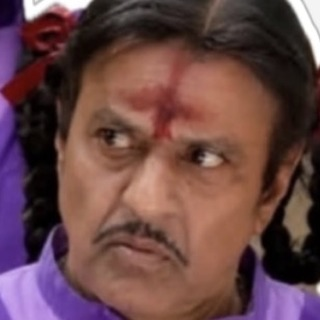
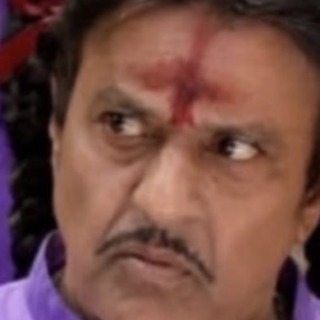
Static gold movie-title texts, bigger clearer faces, slightly faster hero
- Caught caption and Game Over title use a static gold metallic 3D title
  template (Anton font, extrusion, bevel rim, sparkle) instead of animation
- No floating text when eating
- Hero head and veggie faces larger; lighter inner shadow; tighter photo crops
- Walk 175 -> 200, run 255 -> 285

Claude-Session: https://claude.ai/code/session_01C6nTLjUV9UA8by56eQNBCD

diff --git a/game.js b/game.js
@@ -19,8 +19,8 @@
   const GRAV = 2000, MAXFALL = 1000;
   // Hero movement tuning (pixels; one block = 40px)
   const MOVE = {
-    walk: 175,        // walking speed
-    run: 255,         // speed while RUN is held
+    walk: 200,        // walking speed
+    run: 285,         // speed while RUN is held
     accelGround: 1500,
     accelAir: 1100,
     brakeGround: 2400, // stops quickly, no ice-skating
@@ -123,7 +123,7 @@
     c.save();
     c.beginPath(); c.arc(cx, cy, r, 0, TAU); c.clip();
     c.drawImage(img, cx - r, cy - r, r * 2, r * 2);
-    c.fillStyle = radial(c, cx, cy, r * 0.55, r, [[0, 'rgba(0,0,0,0)'], [1, 'rgba(0,0,0,0.38)']]);
+    c.fillStyle = radial(c, cx, cy, r * 0.75, r, [[0, 'rgba(0,0,0,0)'], [1, 'rgba(0,0,0,0.14)']]);
     c.fillRect(cx - r, cy - r, r * 2, r * 2);
     c.restore();
     c.beginPath(); c.arc(cx, cy, r, 0, TAU);
@@ -464,7 +464,7 @@
     const food = (col, row, type) => foods.push({ x: col * T + T / 2, y: row * T + T / 2, type, phase: Math.random() * TAU, got: false });
     const line = (col, row, n, types) => { for (let i = 0; i < n; i++) food(col + i, row, types[i % types.length]); };
     const enemy = (col, row, kind) => enemies.push({
-      kind, x: col * T - 4, y: (row + 1) * T - 50, w: 46, h: 50,
+      kind, x: col * T - 7, y: (row + 1) * T - 60, w: 54, h: 60,
       vx: 0, vy: 0, dir: -1, speed: 55 + Math.random() * 20, onGround: false,
       dead: false, squash: 0, gone: false, phase: Math.random() * TAU,
     });
@@ -598,7 +598,7 @@
   let state = 'title';
   let player, camX = 0, score = 0, eaten = 0, lives = 3, time = 0, winTimer = 0, caughtTimer = 0, shake = 0;
   let particles = [], texts = [];
-  const CAUGHT_TIME = 1.9;
+  const CAUGHT_TIME = 1.8;
 
   function newPlayer() {
     return {
@@ -618,26 +618,14 @@
     showOnly(null);
   }
 
-  // Split a heading into letters that drop in one after another, then wave (see style.css)
-  function animateTitle(el) {
-    const text = el.dataset.text || el.textContent;
-    el.dataset.text = text;
-    el.innerHTML = '';
-    let i = 0;
-    text.split(' ').forEach((word, wi) => {
-      if (wi) el.appendChild(document.createTextNode(' '));
-      const w = document.createElement('span'); w.className = 'word';
-      for (const ch of word) {
-        const c = document.createElement('span');
-        c.className = 'ch'; c.textContent = ch;
-        c.style.setProperty('--d', `${0.25 + i * 0.045}s`);
-        c.style.setProperty('--w', `${i * 0.12}s`);
-        w.appendChild(c); i++;
-      }
-      el.appendChild(w);
-    });
-    const img = document.getElementById('overImg');
-    img.classList.remove('pop'); void img.offsetWidth; img.classList.add('pop');
+  // Game Over title, drawn with the same title template into a canvas in the panel
+  function drawOverTitle() {
+    const cv = document.getElementById('overTitle');
+    const g = cv.getContext('2d');
+    g.setTransform(1, 0, 0, 1, 0, 0);
+    g.clearRect(0, 0, cv.width, cv.height);
+    g.scale(2, 2);
+    drawTitleTemplate(g, ['CHAALA AMATEURISH GA', 'AADAV BIDDA'], cv.width / 4, cv.height / 4 + 2, 54, cv.width / 2 - 40);
   }
 
   const screens = ['titleScreen', 'pauseScreen', 'overScreen', 'winScreen'];
@@ -671,7 +659,9 @@
     if (lives <= 0) {
       state = 'over';
       playSample('gameover', () => sfx.lose());
-      animateTitle(document.getElementById('overTitle'));
+      drawOverTitle();
+      const img = document.getElementById('overImg');
+      img.classList.remove('pop'); void img.offsetWidth; img.classList.add('pop');
       document.getElementById('overStats').innerHTML = `Score <b>${score.toLocaleString()}</b> &nbsp;·&nbsp; Food eaten <b>${eaten}</b>`;
       showOnly('overScreen');
       return;
@@ -737,9 +727,7 @@
         eaten++;
         score += FOOD[f.type].pts;
         p.fat = 1 + Math.min(0.45, eaten * 0.015);
-        const snd = eatSound();
-        addText(f.x, fy - 14, snd === 'burp' ? 'BURRRP!' : 'PRRRRT!', 'burp');
-        addText(f.x, fy + 10, `+${FOOD[f.type].pts}  ${FOOD[f.type].name}`, 'info');
+        eatSound();
         burst(f.x, fy, ['#ffe39a', '#ffb347', '#fff6dc'], 14, 170, 300, true);
       }
     }
@@ -1204,7 +1192,7 @@
       ctx.fillStyle = linear(ctx, -7, 0, 7, 0, [[0, '#6f8f3a'], [0.5, '#c2dd86'], [1, '#5b7a2c']]);
       ctx.beginPath(); ctx.moveTo(-6, -5); ctx.lineTo(6, -5); ctx.lineTo(4.5, -20); ctx.lineTo(-4.5, -20); ctx.fill();
       for (const [dx, dy, r] of [[-14, -20, 7], [14, -20, 7], [-11, -29, 10], [11, -29, 10], [0, -35, 11], [-6, -22, 9], [6, -22, 9]]) floret(ctx, dx, dy, r);
-      fy = -26; fr = 13;
+      fy = -27; fr = 16;
     } else if (e.kind === 'cucumber') {
       ctx.fillStyle = linear(ctx, -14, 0, 14, 0, [[0, '#0f3013'], [0.35, '#3f8f3c'], [0.6, '#2c6e2c'], [1, '#0d2a10']]);
       ctx.beginPath(); ctx.ellipse(0, -21, 14, 21, 0, 0, TAU); ctx.fill();
@@ -1214,7 +1202,7 @@
       for (let i = 0; i < 10; i++) { ctx.beginPath(); ctx.arc(-9 + (i * 7) % 18, -36 + i * 3.4, 0.9, 0, TAU); ctx.fill(); }
       ctx.fillStyle = 'rgba(255,255,255,0.18)'; ctx.beginPath(); ctx.ellipse(-6, -26, 2.5, 10, 0.1, 0, TAU); ctx.fill();
       ctx.fillStyle = '#3d5a22'; ctx.fillRect(-1.5, -45, 3, 5);
-      fy = -23; fr = 12.5;
+      fy = -24; fr = 15.5;
     } else {
       const body = radial(ctx, 0, -20, 2, 24, [[0, '#6fd36a'], [0.5, '#2a8f30'], [1, '#0f4f17']], -7, -28);
       ctx.fillStyle = body;
@@ -1226,7 +1214,7 @@
       ctx.beginPath(); ctx.ellipse(-11, -24, 2.2, 6, 0.25, 0, TAU); ctx.fill();
       ctx.strokeStyle = '#4d6b25'; ctx.lineWidth = 3.5; ctx.lineCap = 'round';
       ctx.beginPath(); ctx.moveTo(0, -37); ctx.quadraticCurveTo(1, -43, 5, -45); ctx.stroke(); ctx.lineCap = 'butt';
-      fy = -19; fr = 12.5;
+      fy = -21; fr = 15.5;
     }
     ctx.scale(-e.dir, 1); // don't mirror the photo
     ctx.save(); ctx.shadowColor = 'rgba(0,0,0,0.5)'; ctx.shadowBlur = 4; ctx.shadowOffsetY = 1;
@@ -1307,10 +1295,10 @@
     ctx.restore();
 
     // head
-    const hx = cx + Math.sin(lean) * 47, hy = p.y + 7;
+    const hx = cx + Math.sin(lean) * 52, hy = p.y + 2;
     ctx.save(); ctx.shadowColor = 'rgba(0,0,0,0.5)'; ctx.shadowBlur = 8; ctx.shadowOffsetY = 2;
-    ctx.fillStyle = '#140d08'; ctx.beginPath(); ctx.arc(hx, hy, 20.5, 0, TAU); ctx.fill(); ctx.restore();
-    drawHeroFace(ctx, hx, hy, 20, p.face);
+    ctx.fillStyle = '#140d08'; ctx.beginPath(); ctx.arc(hx, hy, 27.5, 0, TAU); ctx.fill(); ctx.restore();
+    drawHeroFace(ctx, hx, hy, 27, p.face);
   }
 
   function drawFx() {
@@ -1417,67 +1405,91 @@
     ctx.fillStyle = '#f5efe6'; ctx.beginPath(); ctx.arc(0, 0, r + 4, 0, TAU); ctx.fill(); ctx.restore();
     drawHeroFace(ctx, 0, 0, r, 1, 'caught');
     ctx.restore();
-    drawShoutText('KAAPAADU THATHAAA!', VW / 2 + sh * 0.5, 210 + 82 + 58, 70, age, a);
+    drawCaughtCaption(VW / 2, 210 + 82 + 64, a);
   }
 
-  const easeOutBack = x => { const c1 = 1.9, c3 = c1 + 1; return 1 + c3 * (x - 1) ** 3 + c1 * (x - 1) ** 2; };
+  // Static "movie title" text template: gold metallic face, deep 3D extrusion,
+  // dark outline + bevel rim, and a lens-flare sparkle. Used for the caught popup
+  // and the Game Over title.
+  const FONT_TITLE = '"Anton", "Bebas Neue", Impact, sans-serif';
+  function drawTitleTemplate(c, lines, cx, cy, size, maxW, opts = {}) {
+    const lh = size * (opts.lineHeight || 1.08);
+    c.save();
+    c.textAlign = 'center'; c.textBaseline = 'middle'; c.lineJoin = 'round'; c.miterLimit = 2;
+    if ('letterSpacing' in c) c.letterSpacing = `${Math.round(size * 0.03)}px`;
+    // shrink to fit the widest line
+    c.font = `${size}px ${FONT_TITLE}`;
+    const widest = Math.max(...lines.map(l => c.measureText(l).width));
+    if (widest > maxW) { size *= maxW / widest; c.font = `${size}px ${FONT_TITLE}`; }
+    const depth = Math.max(4, Math.round(size * 0.1));
+    const top = cy - (lines.length - 1) * lh / 2;
+    lines.forEach((line, i) => {
+      const y = top + i * lh;
+      // drop shadow + extrusion
+      c.save();
+      c.shadowColor = 'rgba(0,0,0,0.6)'; c.shadowBlur = size * 0.25; c.shadowOffsetY = size * 0.12;
+      c.fillStyle = '#1a0603';
+      c.fillText(line, cx + depth, y + depth);
+      c.restore();
+      for (let d = depth; d >= 1; d--) {
+        const k = d / depth;
+        c.fillStyle = `rgb(${Math.round(110 - 70 * k)},${Math.round(28 - 18 * k)},${Math.round(10 - 6 * k)})`;
+        c.fillText(line, cx + d * 0.6, y + d);
+      }
+      // outline + bevel rim
+      c.lineWidth = size * 0.12; c.strokeStyle = '#120402'; c.strokeText(line, cx, y);
+      c.lineWidth = size * 0.055;
+      c.strokeStyle = linear(c, 0, y - size / 2, 0, y + size / 2, [[0, '#fff3c4'], [0.5, '#a8681a'], [1, '#f0c45e']]);
+      c.strokeText(line, cx, y);
+      // metallic face with a hard horizon
+      c.fillStyle = linear(c, 0, y - size * 0.5, 0, y + size * 0.5, [
+        [0, '#fffdf0'], [0.3, '#ffe28a'], [0.49, '#f2b440'], [0.5, '#9a5a12'], [0.62, '#c47f22'], [0.85, '#f6c95c'], [1, '#fff1b8'],
+      ]);
+      c.fillText(line, cx, y);
+      // top shine
+      c.save();
+      c.globalCompositeOperation = 'source-atop';
+      c.fillStyle = linear(c, 0, y - size * 0.5, 0, y - size * 0.1, [[0, 'rgba(255,255,255,0.55)'], [1, 'rgba(255,255,255,0)']]);
+      c.fillText(line, cx, y);
+      c.restore();
+      if (i === 0 && opts.sparkle !== false) {
+        const w = c.measureText(line).width;
+        sparkle(c, cx + w / 2 + size * 0.12, y - size * 0.5, size * 0.45);
+      }
+    });
+    c.restore();
+  }
+  function sparkle(c, x, y, s) {
+    c.save();
+    c.globalCompositeOperation = 'lighter';
+    c.fillStyle = radial(c, x, y, 0, s * 0.6, [[0, 'rgba(255,250,220,0.9)'], [0.3, 'rgba(255,220,140,0.35)'], [1, 'rgba(255,200,120,0)']]);
+    c.beginPath(); c.arc(x, y, s * 0.6, 0, TAU); c.fill();
+    c.fillStyle = 'rgba(255,252,235,0.95)';
+    for (const [w, h] of [[s, s * 0.06], [s * 0.06, s * 0.8]]) {
+      c.beginPath(); c.ellipse(x, y, w, h, 0, 0, TAU); c.fill();
+    }
+    c.restore();
+  }
 
-  // Animated shout: a ribbon sweeps in, letters pop in one by one with overshoot,
-  // then keep wobbling on a wave with a hot glow.
-  function drawShoutText(text, x, y, size, age, alpha = 1) {
-    const chars = [...text];
+  // Caught popup caption: the title template on a dark lower-third plate with gold rules
+  function drawCaughtCaption(x, y, alpha) {
+    const text = 'KAAPAADU THATHAAA!';
+    const size = 64, pw = 720, ph = 104;
     ctx.save();
     ctx.globalAlpha = alpha;
-    ctx.font = `${size}px ${FONT_DISPLAY}`;
-    if ('letterSpacing' in ctx) ctx.letterSpacing = '0px';
-    ctx.textAlign = 'center'; ctx.textBaseline = 'middle'; ctx.lineJoin = 'round';
-    const gap = size * 0.07;
-    const widths = chars.map(ch => ch === ' ' ? size * 0.28 : ctx.measureText(ch).width);
-    const total = widths.reduce((s, w) => s + w, 0) + gap * (chars.length - 1);
-
-    // ribbon
-    const rw = (total + size * 1.3) * easeOutBack(Math.min(1, age * 4));
-    const rh = size * 1.08;
+    ctx.translate(x, y);
     ctx.save();
-    ctx.translate(x, y + size * 0.04);
-    ctx.rotate(-0.035);
-    ctx.shadowColor = 'rgba(0,0,0,0.55)'; ctx.shadowBlur = 18; ctx.shadowOffsetY = 6;
-    ctx.fillStyle = linear(ctx, 0, -rh / 2, 0, rh / 2, [[0, '#c4161f'], [0.5, '#7d0b12'], [1, '#4a0509']]);
+    ctx.shadowColor = 'rgba(0,0,0,0.6)'; ctx.shadowBlur = 26; ctx.shadowOffsetY = 8;
+    ctx.fillStyle = linear(ctx, 0, -ph / 2, 0, ph / 2, [[0, 'rgba(70,6,10,0.95)'], [1, 'rgba(25,2,5,0.95)']]);
     ctx.beginPath();
-    ctx.moveTo(-rw / 2 - 18, -rh / 2); ctx.lineTo(rw / 2 + 18, -rh / 2); ctx.lineTo(rw / 2, 0); ctx.lineTo(rw / 2 + 18, rh / 2);
-    ctx.lineTo(-rw / 2 - 18, rh / 2); ctx.lineTo(-rw / 2, 0); ctx.closePath(); ctx.fill();
-    ctx.shadowColor = 'transparent';
-    ctx.fillStyle = linear(ctx, -rw / 2, 0, rw / 2, 0, [[0, '#a8701a'], [0.5, '#fff0b0'], [1, '#a8701a']]);
-    ctx.fillRect(-rw / 2 - 4, -rh / 2 + 4, rw + 8, 2.5);
-    ctx.fillRect(-rw / 2 - 4, rh / 2 - 6.5, rw + 8, 2.5);
-    // moving shine across the ribbon
-    const sx = ((age * 1.2) % 1.4 - 0.2) * rw - rw / 2;
-    ctx.fillStyle = linear(ctx, sx - 40, 0, sx + 40, 0, [[0, 'rgba(255,255,255,0)'], [0.5, 'rgba(255,230,200,0.22)'], [1, 'rgba(255,255,255,0)']]);
-    ctx.fillRect(-rw / 2, -rh / 2, rw, rh);
+    ctx.moveTo(-pw / 2 + 26, -ph / 2); ctx.lineTo(pw / 2, -ph / 2); ctx.lineTo(pw / 2 - 26, ph / 2); ctx.lineTo(-pw / 2, ph / 2); ctx.closePath();
+    ctx.fill();
     ctx.restore();
-
-    // letters
-    let cx = x - total / 2;
-    chars.forEach((ch, i) => {
-      const w = widths[i];
-      const t = age - 0.12 - i * 0.04;
-      if (ch !== ' ' && t > 0) {
-        const pop = t < 0.3 ? Math.max(0.01, easeOutBack(t / 0.3)) : 1;
-        const wave = Math.sin(age * 8 - i * 0.6) * size * 0.06;
-        const rot = Math.sin(age * 6 + i * 1.7) * 0.07;
-        ctx.save();
-        ctx.translate(cx + w / 2, y + wave - (1 - Math.min(1, t / 0.3)) * 30);
-        ctx.rotate(rot);
-        ctx.scale(pop, pop);
-        ctx.lineWidth = size * 0.17; ctx.strokeStyle = '#1f0303';
-        ctx.strokeText(ch, 0, 0);
-        ctx.shadowColor = 'rgba(255,60,30,0.85)'; ctx.shadowBlur = 16 + Math.sin(age * 10) * 6;
-        ctx.fillStyle = linear(ctx, 0, -size * 0.45, 0, size * 0.45, [[0, '#fffbe6'], [0.45, '#ffd54a'], [1, '#ff6a1f']]);
-        ctx.fillText(ch, 0, 0);
-        ctx.restore();
-      }
-      cx += w + gap;
-    });
+    const gold = linear(ctx, -pw / 2, 0, pw / 2, 0, [[0, 'rgba(168,112,26,0)'], [0.2, '#e2a83b'], [0.5, '#fff0b0'], [0.8, '#e2a83b'], [1, 'rgba(168,112,26,0)']]);
+    ctx.fillStyle = gold;
+    ctx.fillRect(-pw / 2 + 20, -ph / 2 + 6, pw - 40, 2);
+    ctx.fillRect(-pw / 2 + 20, ph / 2 - 8, pw - 40, 2);
+    drawTitleTemplate(ctx, [text], 0, 2, size, pw - 90);
     ctx.restore();
   }
 
@@ -1548,6 +1560,7 @@
   Promise.all([loadFace('hero'), loadFace('veggie'), loadFace('caught')]).then(drawPreviews);
   if (document.fonts && document.fonts.load) {
     document.fonts.load(`30px ${FONT_DISPLAY}`).catch(() => {});
+    document.fonts.load(`60px ${FONT_TITLE}`).then(() => { if (state === 'over') drawOverTitle(); }).catch(() => {});
   }
   requestAnimationFrame(frame);
 })();

diff --git a/style.css b/style.css
@@ -127,45 +127,10 @@ kbd {
 #touch button[data-key="jump"] { width: 150px; height: 150px; font-size: 54px; }
 #touch button.on { background: rgba(255, 214, 140, 0.25); }
 
-/* Game-over title: letters drop in one by one, then keep waving with a hot glow */
-.overTitle {
-  font-size: 54px !important; line-height: 1.02 !important; max-width: 540px; margin: 0 auto;
-  background: none !important; color: #fff !important; -webkit-background-clip: border-box !important; background-clip: border-box !important;
-  filter: none !important; animation: titleShake 0.5s ease 0.2s;
-}
-.overTitle .word { display: inline-block; white-space: nowrap; }
-.overTitle .ch {
-  display: inline-block;
-  background: linear-gradient(180deg, #fffbe6 0%, #ffd54a 45%, #ff5a1f 100%);
-  -webkit-background-clip: text; background-clip: text; color: transparent;
-  -webkit-text-stroke: 1.5px rgba(60, 5, 5, 0.9);
-  filter: drop-shadow(0 3px 0 #3a0505) drop-shadow(0 0 14px rgba(255, 70, 30, 0.6));
-  opacity: 0;
-  animation: chDrop 0.55s cubic-bezier(.2, 1.6, .4, 1) var(--d) forwards,
-             chWave 1.8s ease-in-out calc(var(--d) + 0.6s + var(--w)) infinite;
-}
-@keyframes chDrop {
-  0%   { opacity: 0; transform: translateY(-70px) scale(1.8) rotate(-14deg); }
-  60%  { opacity: 1; transform: translateY(6px) scale(0.92) rotate(3deg); }
-  100% { opacity: 1; transform: none; }
-}
-@keyframes chWave {
-  0%, 100% { opacity: 1; transform: translateY(0) rotate(0deg); }
-  50%      { opacity: 1; transform: translateY(-6px) rotate(-3deg); }
-}
-@keyframes titleShake {
-  0%, 100% { transform: none; }
-  20% { transform: translateX(-8px) rotate(-1deg); }
-  40% { transform: translateX(7px) rotate(1deg); }
-  60% { transform: translateX(-5px); }
-  80% { transform: translateX(3px); }
-}
-#overImg.pop { animation: imgPop 0.7s cubic-bezier(.2, 1.5, .4, 1) 0.9s both, imgSway 3s ease-in-out 1.6s infinite; }
+/* Game-over title: drawn on a canvas with the gold movie-title template (see game.js) */
+#overTitle { display: block; width: 540px; height: 135px; margin: -6px auto 0; }
+#overImg.pop { animation: imgPop 0.45s cubic-bezier(.2, 1.4, .4, 1) both; }
 @keyframes imgPop {
-  0%   { opacity: 0; transform: scale(0.3) rotate(-12deg); }
+  0%   { opacity: 0; transform: scale(0.7); }
   100% { opacity: 1; transform: none; }
-}
-@keyframes imgSway {
-  0%, 100% { transform: rotate(-1.5deg); }
-  50%      { transform: rotate(1.5deg) scale(1.02); }
 }

diff --git a/index.html b/index.html
@@ -6,7 +6,7 @@
   <title>Burp Hero: The Great Feast Run</title>
   <link rel="preconnect" href="https://fonts.googleapis.com" />
   <link rel="preconnect" href="https://fonts.gstatic.com" crossorigin />
-  <link href="https://fonts.googleapis.com/css2?family=Bebas+Neue&family=Inter:wght@400;600;800&display=swap" rel="stylesheet" />
+  <link href="https://fonts.googleapis.com/css2?family=Anton&family=Bebas+Neue&family=Inter:wght@400;600;800&display=swap" rel="stylesheet" />
   <link rel="stylesheet" href="style.css" />
 </head>
 <body>
@@ -63,7 +63,7 @@
     <!-- Game over -->
     <div class="overlay hidden danger" id="overScreen">
       <div class="panel">
-        <h1 class="overTitle" id="overTitle">Chaala amateurish ga aadav bidda</h1>
+        <canvas id="overTitle" width="1080" height="270" aria-label="Chaala amateurish ga aadav bidda"></canvas>
         <img id="overImg" src="assets/game-over.jpg" alt="" onerror="this.style.display='none'" />
         <p class="stats" id="overStats"></p>
         <button class="btn big" id="retryBtn">Try Again</button>
